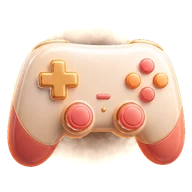
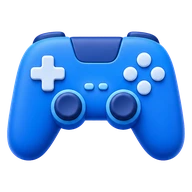
分頁按鈕改用藍色去背圖示並重新配色
- 圖示改為 H 站（GPT Image 2）產生的藍色系圖示，完全去背、無陰影
- 按鈕配色：未選中為深藍玻璃底，選中為冰白底加藍色光暈
- 拿掉分頁列最外層的橢圓外框

diff --git a/index.html b/index.html
@@ -159,37 +159,31 @@
   /* ---------- 作品區 ---------- */
   section { padding-block: 80px; scroll-margin-top: 40px; }
   /* 分頁切換 */
-  /* 分頁按鈕：H 站產生的圓形圖示徽章＋文字，玻璃質感；選中的用珊瑚橘漸層與光暈標示 */
-  .tabs {
-    display: inline-flex; gap: 10px; padding: 8px; margin-bottom: 24px;
-    background: rgba(10, 11, 28, .72); backdrop-filter: blur(12px);
-    border: 1px solid rgba(255,255,255,.14); border-radius: 99px;
-    box-shadow: 0 18px 40px -16px rgba(0,0,0,.85);
-  }
+  /* 分頁按鈕：H 站產生的藍色去背圖示＋文字。未選中是深藍玻璃，選中是冰白底＋藍色光暈（藍圖示在白底上最清楚） */
+  .tabs { display: inline-flex; gap: 12px; margin-bottom: 24px; }
   .tabs button {
     display: inline-flex; align-items: center; gap: 8px; white-space: nowrap;
     font: inherit; font-size: 1.02rem; font-weight: 600; letter-spacing: .08em; cursor: pointer;
     padding: 7px 18px 7px 12px; border-radius: 99px;
-    border: 1px solid rgba(255,255,255,.12);
-    background: linear-gradient(180deg, rgba(255,255,255,.10), rgba(255,255,255,.03));
-    color: #f1eef8;
+    border: 1px solid rgba(120,170,255,.22);
+    background: linear-gradient(180deg, rgba(37,99,235,.22), rgba(30,64,175,.08));
+    color: #dbe8ff;
     transition: background .3s, color .3s, box-shadow .3s, border-color .3s, transform .25s;
   }
   .tabs img {
     width: 40px; height: 40px; flex: none; object-fit: contain;
-    filter: drop-shadow(0 3px 5px rgba(0,0,0,.35));
     transition: transform .35s cubic-bezier(.2,.8,.2,1);
   }
   .tabs button:hover {
-    background: linear-gradient(180deg, rgba(255,255,255,.16), rgba(255,255,255,.06));
-    border-color: rgba(255,190,150,.55); color: #fff; transform: translateY(-1px);
+    background: linear-gradient(180deg, rgba(59,130,246,.36), rgba(37,99,235,.18));
+    border-color: rgba(147,197,253,.65); color: #fff; transform: translateY(-1px);
   }
   .tabs button:hover img { transform: scale(1.08) rotate(-4deg); }
-  .tabs button:focus-visible { outline: 3px solid var(--accent-2); outline-offset: 2px; }
+  .tabs button:focus-visible { outline: 3px solid #60a5fa; outline-offset: 2px; }
   .tabs button[aria-selected="true"] {
-    background: linear-gradient(135deg, rgba(255,138,91,.96), rgba(255,111,125,.96)); color: #fff;
-    border-color: rgba(255,255,255,.55);
-    box-shadow: 0 0 0 3px rgba(255,138,91,.22), 0 12px 28px -10px rgba(255,111,125,.95);
+    background: linear-gradient(180deg, #ffffff, #e2edff); color: #0d1f4d;
+    border-color: rgba(255,255,255,.95);
+    box-shadow: 0 0 0 3px rgba(96,165,250,.38), 0 12px 28px -10px rgba(59,130,246,.95);
   }
 
   .grid { display: grid; grid-template-columns: repeat(2, 1fr); gap: 28px; }
@@ -329,7 +323,7 @@
   }
   @media (max-width: 520px) {
     /* 手機：圖示在上、文字在下的直式小卡 */
-    .tabs { display: flex; gap: 6px; padding: 6px; border-radius: 24px; }
+    .tabs { display: flex; gap: 8px; }
     .tabs button {
       flex: 1; flex-direction: column; gap: 5px; padding: 8px 4px 7px;
       border-radius: 18px; font-size: .88rem; letter-spacing: .04em; white-space: nowrap;
@@ -340,7 +334,7 @@
     .skills { grid-template-columns: 1fr; }
   }
   @media (max-width: 360px) {
-    .tabs { gap: 4px; padding: 5px; }
+    .tabs { gap: 6px; }
     .tabs button { font-size: .82rem; padding: 7px 2px 6px; }
     .tabs img { width: 32px; height: 32px; }
   }
@@ -387,10 +381,10 @@
         <h1>打開瀏覽器<br>就能<em>玩</em>的作品</h1>
         <p>我喜歡把點子做成可以直接上手的網頁：從教你學 Git 的互動練功房，到一整群可愛貓咪登場的休閒遊戲，還有能旋轉視角的 3D 麻將塔。</p>
         <div class="tabs" role="tablist" aria-label="作品分頁">
-          <button role="tab" data-tab="game" aria-selected="true"><img src="images/tabs/game.webp?v=2" alt="" width="40" height="40"><span>遊戲</span></button>
-          <button role="tab" data-tab="app" aria-selected="false"><img src="images/tabs/app.webp?v=2" alt="" width="40" height="40"><span>應用</span></button>
-          <button role="tab" data-tab="video" aria-selected="false"><img src="images/tabs/video.webp?v=2" alt="" width="40" height="40"><span>影音</span></button>
-          <button role="tab" data-tab="learn" aria-selected="false"><img src="images/tabs/learn.webp?v=2" alt="" width="40" height="40"><span>學習</span></button>
+          <button role="tab" data-tab="game" aria-selected="true"><img src="images/tabs/game.webp?v=3" alt="" width="40" height="40"><span>遊戲</span></button>
+          <button role="tab" data-tab="app" aria-selected="false"><img src="images/tabs/app.webp?v=3" alt="" width="40" height="40"><span>應用</span></button>
+          <button role="tab" data-tab="video" aria-selected="false"><img src="images/tabs/video.webp?v=3" alt="" width="40" height="40"><span>影音</span></button>
+          <button role="tab" data-tab="learn" aria-selected="false"><img src="images/tabs/learn.webp?v=3" alt="" width="40" height="40"><span>學習</span></button>
         </div>
         <div class="stats">
           <div><b id="count">4</b><span>線上作品</span></div>
